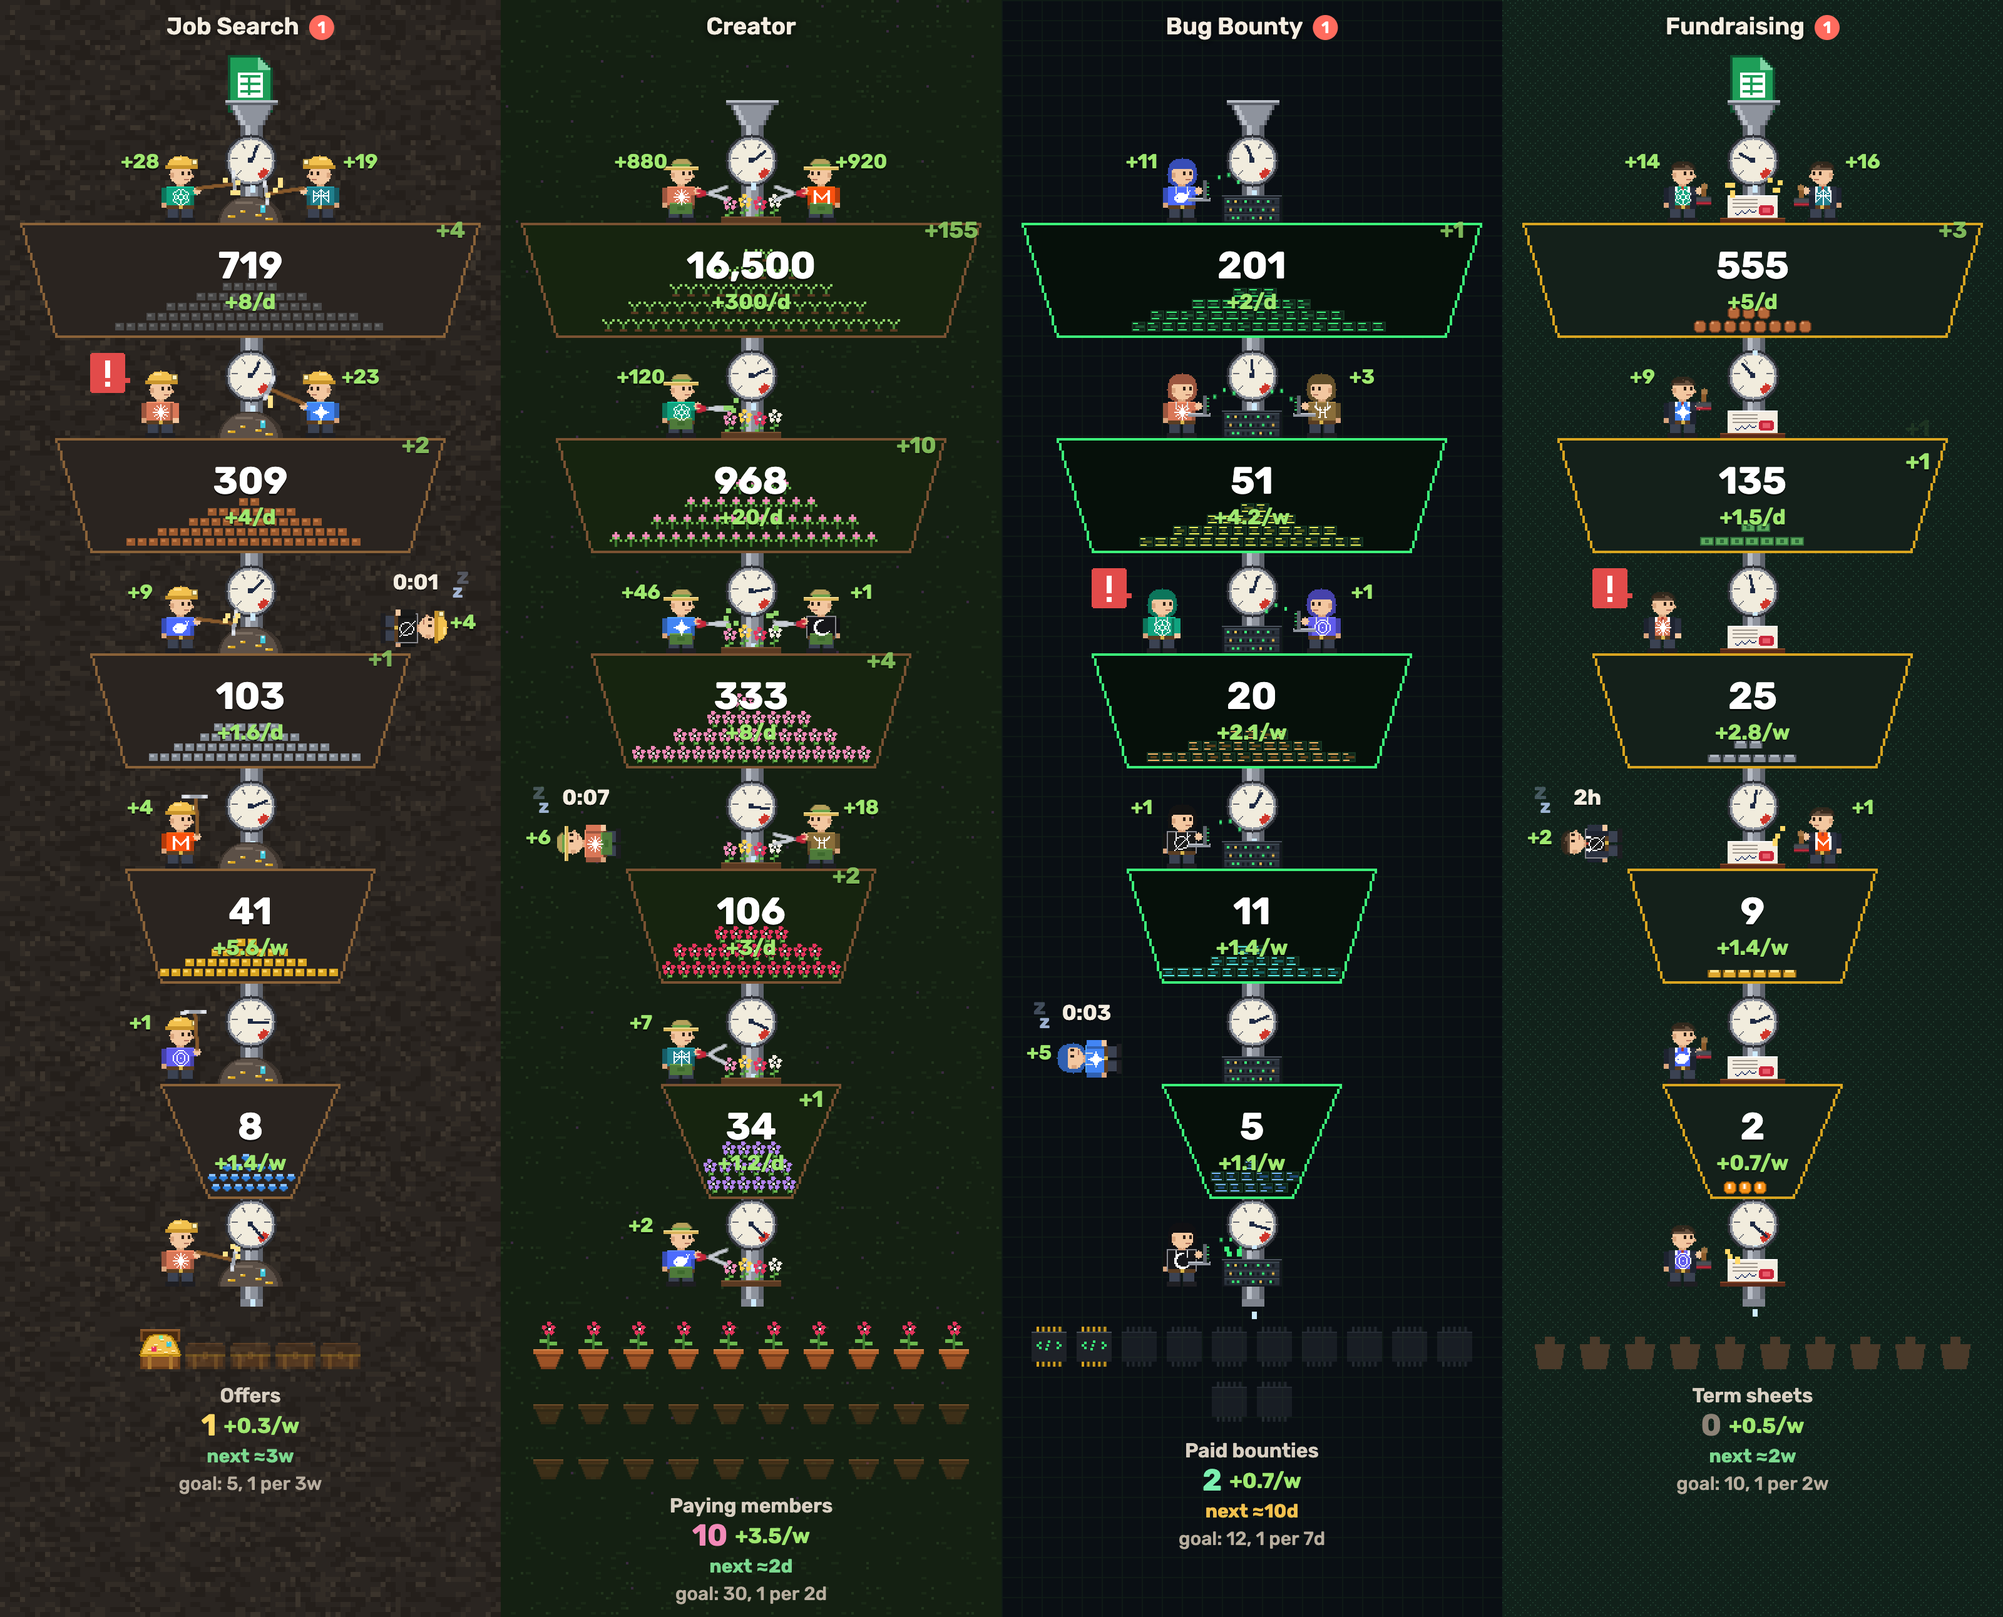
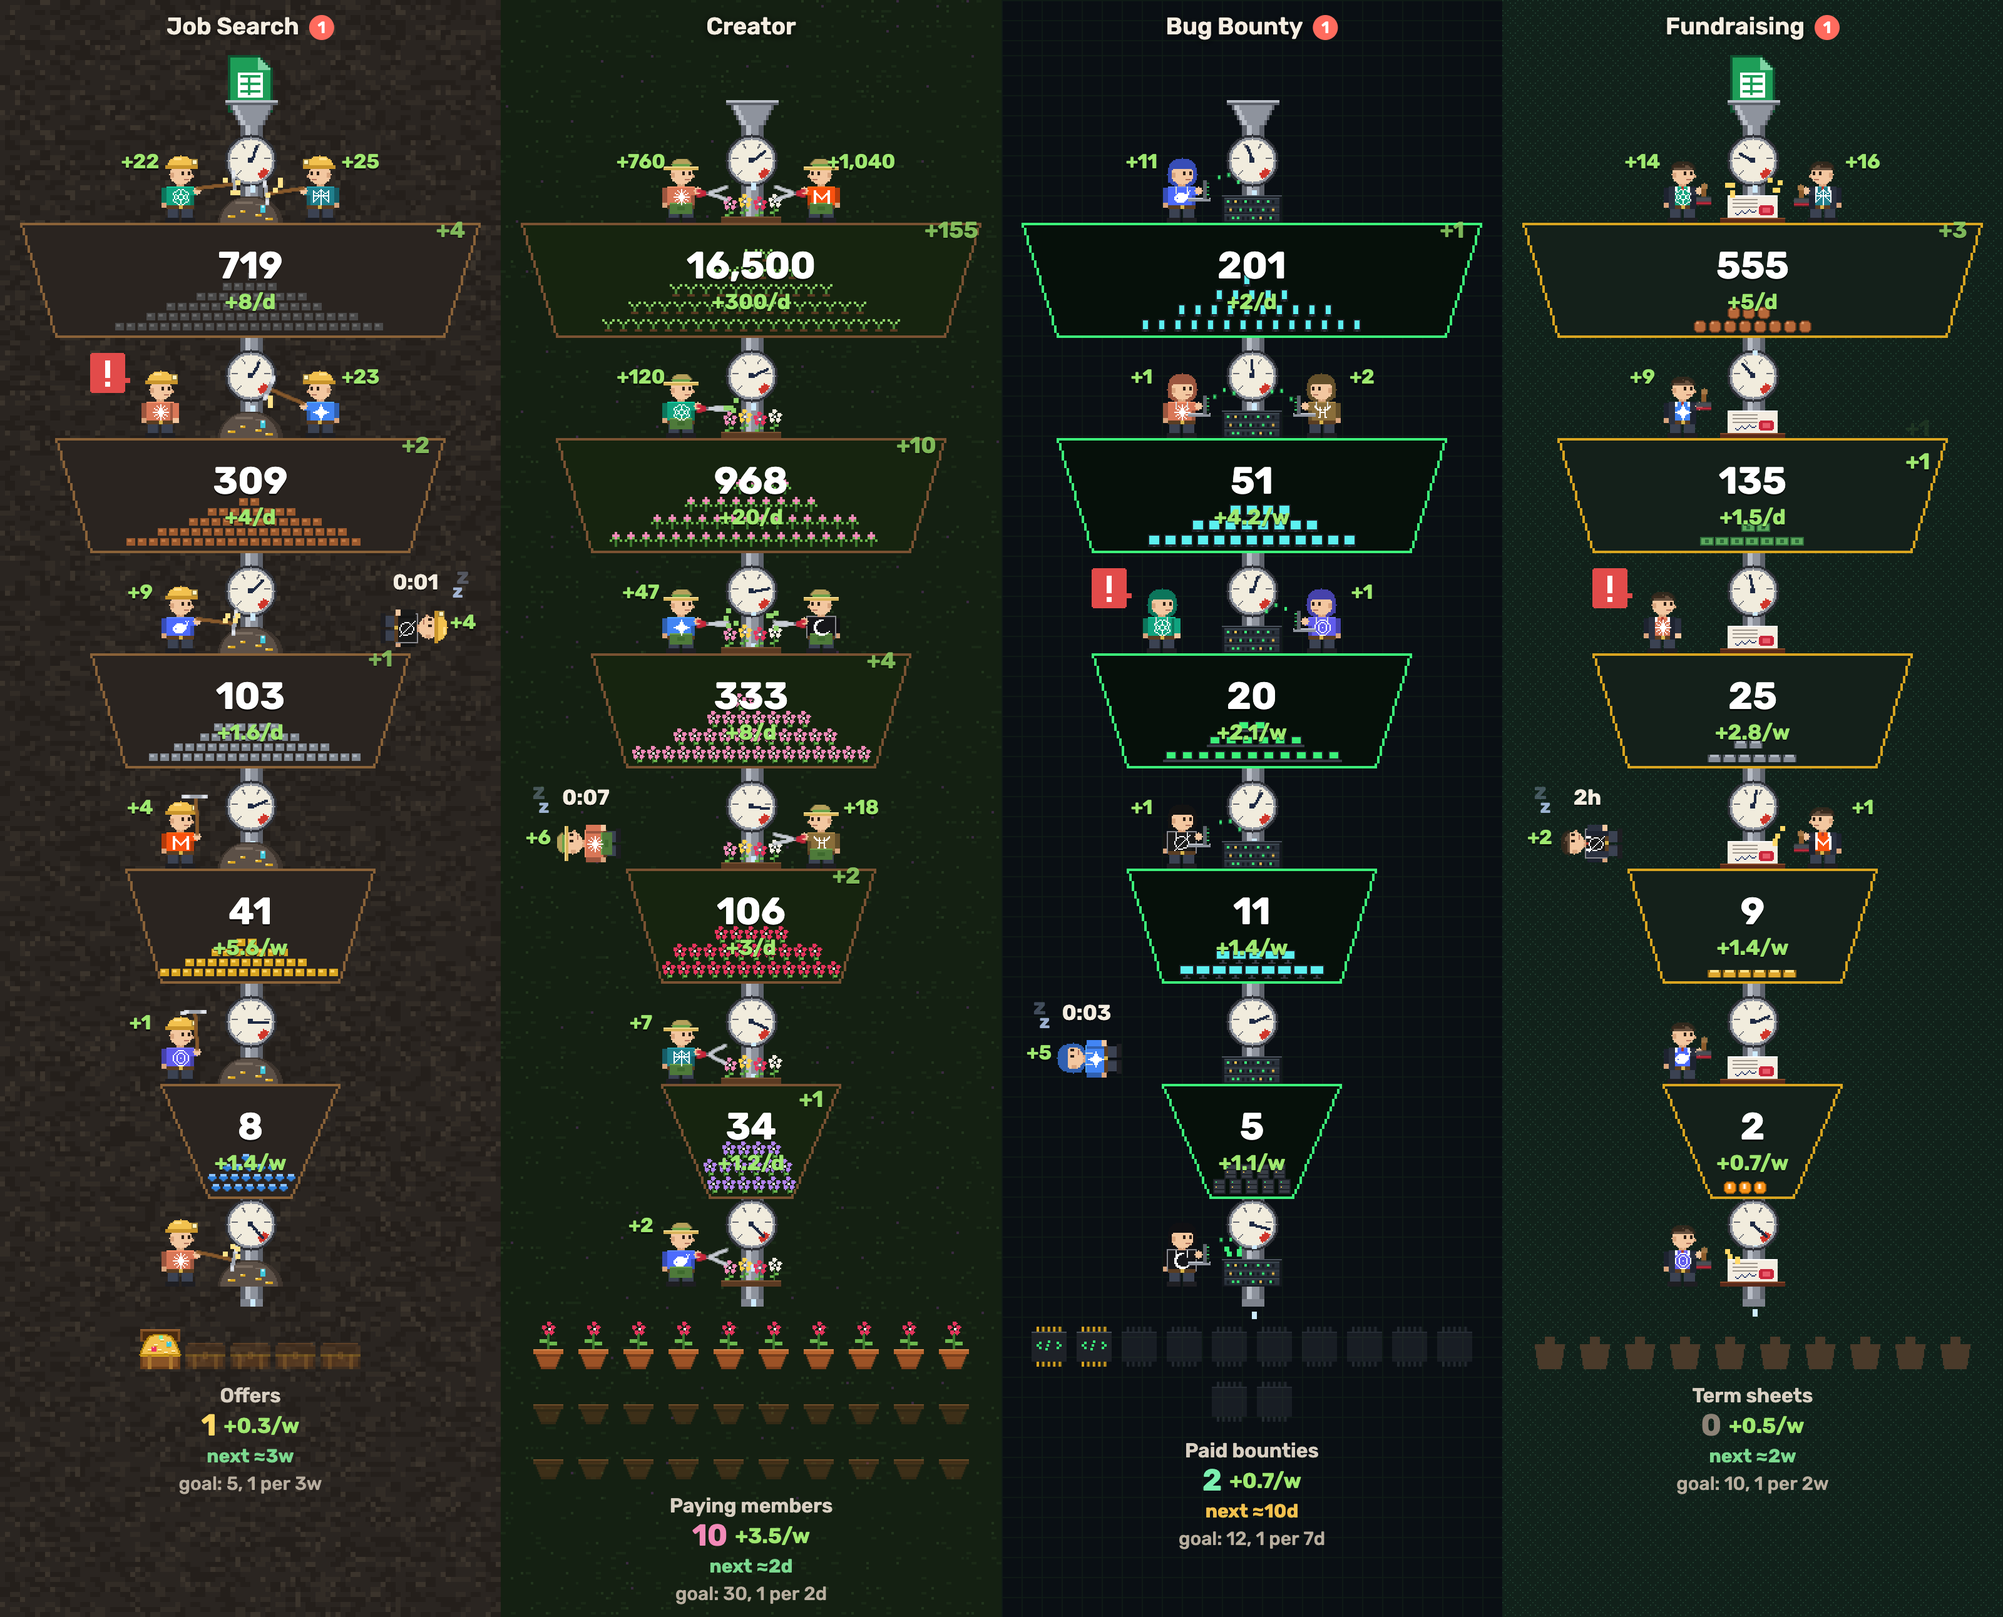
Code tanks fill with devices, bigger by stage: phones, tablets, laptops, monitors, servers

diff --git a/src/themes.js b/src/themes.js
@@ -451,15 +451,17 @@ const pieceLove = {
     byDepth([flower, letter, heart, lips, ring], j, n)(c, x, y, 0.75, col);
   },
 };
-// Code: little snippets, a dark block with two or three coloured lines like highlighted source;
-// the line colours change by stage.
+// Code: devices, bigger by stage: phones, tablets, laptops, monitors, then servers.
 const pieceCode = {
-  w: 6, h: 4.5,
-  draw(c, x, y, j, n, i = 0) {
-    const [a, b] = byDepth([['#3CF27A', '#2E8A50'], ['#F0F05C', '#8A8A20'], ['#FFB866', '#A85A18'], ['#5CF0F0', '#18A0A8'], ['#7CB8FF', '#2A6AD0']], j, n);
-    rect(c, x, y, 5.5, 4, '#1E4A2E'); rect(c, x + 0.25, y + 0.25, 5, 3.5, '#10261A');
-    const l = [3.5, 2, 3, 4, 2.5][i % 5], m = [2, 3.5, 1.5, 2.5, 3][i % 5];
-    rect(c, x + 0.5, y + 0.5, l, 0.5, a); rect(c, x + 1.5, y + 1.75, m, 0.5, b); rect(c, x + 0.5, y + 3, Math.min(4.5, l + 0.5), 0.5, a);
+  w: 6.5, h: 6,
+  draw(c, x, y, j, n) {
+    const kind = byDepth(['phone', 'tablet', 'laptop', 'monitor', 'server'], j, n);
+    const body = '#3A3F48', edge = '#1E2228', glow = '#3CF27A', screen = '#5CF0F0';
+    if (kind === 'phone') { rect(c, x + 1.5, y + 0.5, 3, 5, edge); rect(c, x + 2, y + 1, 2, 3.5, screen); rect(c, x + 2.5, y + 5, 1, 0.5, body); }
+    else if (kind === 'tablet') { rect(c, x + 0.5, y + 0.5, 5, 5, edge); rect(c, x + 1, y + 1, 4, 3.5, screen); rect(c, x + 2.5, y + 5, 1, 0.5, body); }
+    else if (kind === 'laptop') { rect(c, x + 1, y + 1, 4.5, 3.5, edge); rect(c, x + 1.5, y + 1.5, 3.5, 2.5, glow); rect(c, x, y + 4.5, 6.5, 1, body); }
+    else if (kind === 'monitor') { rect(c, x, y + 0.5, 6, 4, edge); rect(c, x + 0.5, y + 1, 5, 3, screen); rect(c, x + 2.5, y + 4.5, 1, 1, body); rect(c, x + 1.5, y + 5.5, 3, 0.5, body); }
+    else { rect(c, x + 0.5, y, 5, 6, edge); rect(c, x + 1, y + 0.5, 4, 1.5, body); rect(c, x + 1, y + 2.5, 4, 1.5, body); rect(c, x + 1.5, y + 1, 0.5, 0.5, glow); rect(c, x + 1.5, y + 3, 0.5, 0.5, '#F2C14E'); rect(c, x + 1, y + 4.5, 4, 1, body); }
   },
 };
 const pieceMoney = {

diff --git a/app/index.html b/app/index.html
@@ -12,7 +12,7 @@
   <link rel="preconnect" href="https://fonts.googleapis.com">
   <link rel="preconnect" href="https://fonts.gstatic.com" crossorigin>
   <link href="https://fonts.googleapis.com/css2?family=Rubik:wght@400;500;600;700&family=Noto+Sans+SC:wght@400;500;700&family=Noto+Sans+Thai:wght@400;500;700&family=Be+Vietnam+Pro:wght@400;500;600;700&family=Noto+Sans+JP:wght@400;500;700&display=swap" rel="stylesheet">
-  <link rel="stylesheet" href="../dashboard.css?v=ee44647d">
+  <link rel="stylesheet" href="../dashboard.css?v=3d2eac2a">
 </head>
 <body>
   <nav class="sitebar">
@@ -38,11 +38,11 @@
   <div id="pop" hidden></div>
 
   <script type="module">
-    import { supabase } from '../src/auth.js?v=ee44647d';
-    import { setUpConnect } from '../src/connect.js?v=ee44647d';
-    import { loadFunnels, answer, watch, runs } from '../src/live.js?v=ee44647d';
-    import { mountDashboard } from '../src/dashboard.js?v=ee44647d';
-    import { t, fmtDuration } from '../src/i18n.js?v=ee44647d';
+    import { supabase } from '../src/auth.js?v=3d2eac2a';
+    import { setUpConnect } from '../src/connect.js?v=3d2eac2a';
+    import { loadFunnels, answer, watch, runs } from '../src/live.js?v=3d2eac2a';
+    import { mountDashboard } from '../src/dashboard.js?v=3d2eac2a';
+    import { t, fmtDuration } from '../src/i18n.js?v=3d2eac2a';
 
     // Coming back from an email link, supabase-js reads the session from the URL.
     const { data: { session } } = await supabase.auth.getSession();
@@ -92,6 +92,6 @@
       document.addEventListener('focusout', () => { if (pending) refresh(); });
     }
   </script>
-  <script type="module" src="../src/nav.js?v=ee44647d"></script>
+  <script type="module" src="../src/nav.js?v=3d2eac2a"></script>
 </body>
 </html>

diff --git a/login/index.html b/login/index.html
@@ -12,7 +12,7 @@
   <link rel="preconnect" href="https://fonts.googleapis.com">
   <link rel="preconnect" href="https://fonts.gstatic.com" crossorigin>
   <link href="https://fonts.googleapis.com/css2?family=Rubik:wght@400;500;600;700&family=Noto+Sans+SC:wght@400;500;700&family=Noto+Sans+Thai:wght@400;500;700&family=Be+Vietnam+Pro:wght@400;500;600;700&family=Noto+Sans+JP:wght@400;500;700&display=swap" rel="stylesheet">
-  <link rel="stylesheet" href="../site.css?v=ee44647d">
+  <link rel="stylesheet" href="../site.css?v=3d2eac2a">
 </head>
 <body>
   <div class="wrap">
@@ -44,9 +44,9 @@
   </div>
 
   <script type="module">
-    import { supabase, afterSignIn } from '../src/auth.js?v=ee44647d';
-    import { GOOGLE_CLIENT_ID } from '../src/config.js?v=ee44647d';
-    import { t, lang } from '../src/i18n.js?v=ee44647d';
+    import { supabase, afterSignIn } from '../src/auth.js?v=3d2eac2a';
+    import { GOOGLE_CLIENT_ID } from '../src/config.js?v=3d2eac2a';
+    import { t, lang } from '../src/i18n.js?v=3d2eac2a';
 
     const msg = document.getElementById('msg');
     const say = (text, kind = '') => { msg.textContent = text; msg.className = 'msg ' + kind; };
@@ -120,6 +120,6 @@
       else say(t('login.sendFailed'), 'error');
     });
   </script>
-  <script type="module" src="../src/nav.js?v=ee44647d"></script>
+  <script type="module" src="../src/nav.js?v=3d2eac2a"></script>
 </body>
 </html>

diff --git a/oauth/consent/index.html b/oauth/consent/index.html
@@ -13,7 +13,7 @@
   <link rel="preconnect" href="https://fonts.googleapis.com">
   <link rel="preconnect" href="https://fonts.gstatic.com" crossorigin>
   <link href="https://fonts.googleapis.com/css2?family=Rubik:wght@400;500;600;700&family=Noto+Sans+SC:wght@400;500;700&family=Noto+Sans+Thai:wght@400;500;700&family=Be+Vietnam+Pro:wght@400;500;600;700&family=Noto+Sans+JP:wght@400;500;700&display=swap" rel="stylesheet">
-  <link rel="stylesheet" href="../../site.css?v=ee44647d">
+  <link rel="stylesheet" href="../../site.css?v=3d2eac2a">
 </head>
 <body>
   <div class="wrap">
@@ -29,8 +29,8 @@
   <script type="module">
     // OAuth consent: Supabase Auth sends the person here with ?authorization_id= when an agent
     // (Claude, ChatGPT, Cursor…) asks to connect to their GoalAgents.
-    import { supabase, siteUrl } from '../../src/auth.js?v=ee44647d';
-    import { t } from '../../src/i18n.js?v=ee44647d';
+    import { supabase, siteUrl } from '../../src/auth.js?v=3d2eac2a';
+    import { t } from '../../src/i18n.js?v=3d2eac2a';
 
     const card = document.getElementById('card');
     const esc = s => String(s ?? '').replace(/[&<>"']/g, c => `&#${c.charCodeAt(0)};`);

diff --git a/contact/index.html b/contact/index.html
@@ -23,7 +23,7 @@
   <link rel="preconnect" href="https://fonts.googleapis.com">
   <link rel="preconnect" href="https://fonts.gstatic.com" crossorigin>
   <link href="https://fonts.googleapis.com/css2?family=Rubik:wght@400;500;600;700&family=Noto+Sans+SC:wght@400;500;700&family=Noto+Sans+Thai:wght@400;500;700&family=Be+Vietnam+Pro:wght@400;500;600;700&family=Noto+Sans+JP:wght@400;500;700&display=swap" rel="stylesheet">
-  <link rel="stylesheet" href="../site.css?v=ee44647d">
+  <link rel="stylesheet" href="../site.css?v=3d2eac2a">
 </head>
 <body>
   <div class="wrap">
@@ -54,6 +54,6 @@
       <span><a href="../deck/" target="_blank" rel="noopener" data-i18n="footer.deck">Pitch deck</a> · <a href="../privacy/" data-i18n="footer.privacy">Privacy</a> · <a href="../contact/" data-i18n="footer.contact">Contact</a></span>
     </footer>
   </div>
-  <script type="module" src="../src/nav.js?v=ee44647d"></script>
+  <script type="module" src="../src/nav.js?v=3d2eac2a"></script>
 </body>
 </html>

diff --git a/pricing/index.html b/pricing/index.html
@@ -23,7 +23,7 @@
   <link rel="preconnect" href="https://fonts.googleapis.com">
   <link rel="preconnect" href="https://fonts.gstatic.com" crossorigin>
   <link href="https://fonts.googleapis.com/css2?family=Rubik:wght@400;500;600;700&family=Noto+Sans+SC:wght@400;500;700&family=Noto+Sans+Thai:wght@400;500;700&family=Be+Vietnam+Pro:wght@400;500;600;700&family=Noto+Sans+JP:wght@400;500;700&display=swap" rel="stylesheet">
-  <link rel="stylesheet" href="../site.css?v=ee44647d">
+  <link rel="stylesheet" href="../site.css?v=3d2eac2a">
 </head>
 <body>
   <div class="wrap">
@@ -84,6 +84,6 @@
       <span><a href="../deck/" target="_blank" rel="noopener" data-i18n="footer.deck">Pitch deck</a> · <a href="../privacy/" data-i18n="footer.privacy">Privacy</a> · <a href="../contact/" data-i18n="footer.contact">Contact</a></span>
     </footer>
   </div>
-  <script type="module" src="../src/nav.js?v=ee44647d"></script>
+  <script type="module" src="../src/nav.js?v=3d2eac2a"></script>
 </body>
 </html>

diff --git a/privacy/index.html b/privacy/index.html
@@ -23,7 +23,7 @@
   <link rel="preconnect" href="https://fonts.googleapis.com">
   <link rel="preconnect" href="https://fonts.gstatic.com" crossorigin>
   <link href="https://fonts.googleapis.com/css2?family=Rubik:wght@400;500;600;700&family=Noto+Sans+SC:wght@400;500;700&family=Noto+Sans+Thai:wght@400;500;700&family=Be+Vietnam+Pro:wght@400;500;600;700&family=Noto+Sans+JP:wght@400;500;700&display=swap" rel="stylesheet">
-  <link rel="stylesheet" href="../site.css?v=ee44647d">
+  <link rel="stylesheet" href="../site.css?v=3d2eac2a">
 </head>
 <body>
   <div class="wrap">
@@ -60,6 +60,6 @@
       <span><a href="../deck/" target="_blank" rel="noopener" data-i18n="footer.deck">Pitch deck</a> · <a href="../privacy/" data-i18n="footer.privacy">Privacy</a> · <a href="../contact/" data-i18n="footer.contact">Contact</a></span>
     </footer>
   </div>
-  <script type="module" src="../src/nav.js?v=ee44647d"></script>
+  <script type="module" src="../src/nav.js?v=3d2eac2a"></script>
 </body>
 </html>

diff --git a/tools/render-docs.js b/tools/render-docs.js
@@ -1,10 +1,10 @@
 // Renders the README pictures (agents sheet, theme samples, the board) and the link preview card from the same drawing code as
 // the dashboard and saves them through serve.py: open http://localhost:5173/tools/render-docs.html
 // (always in English: the page adds ?lang=en to itself).
-import { AGENTS, FUNNELS } from '../src/data.js?v=ee44647d';
-import { Scene, CW, H } from '../src/scene.js?v=ee44647d';
-import { THEMES } from '../src/themes.js?v=ee44647d';
-import { drawStanding, drawPickaxe, drawShears, drawBeaker, drawBow, drawArrow, drawLaptop, drawStamp } from '../src/sprites.js?v=ee44647d';
+import { AGENTS, FUNNELS } from '../src/data.js?v=3d2eac2a';
+import { Scene, CW, H } from '../src/scene.js?v=3d2eac2a';
+import { THEMES } from '../src/themes.js?v=3d2eac2a';
+import { drawStanding, drawPickaxe, drawShears, drawBeaker, drawBow, drawArrow, drawLaptop, drawStamp } from '../src/sprites.js?v=3d2eac2a';
 
 const FONT = 'Rubik, system-ui, sans-serif';
 

diff --git a/index.html b/index.html
@@ -23,7 +23,7 @@
   <link rel="preconnect" href="https://fonts.googleapis.com">
   <link rel="preconnect" href="https://fonts.gstatic.com" crossorigin>
   <link href="https://fonts.googleapis.com/css2?family=Rubik:wght@400;500;600;700&family=Noto+Sans+SC:wght@400;500;700&family=Noto+Sans+Thai:wght@400;500;700&family=Be+Vietnam+Pro:wght@400;500;600;700&family=Noto+Sans+JP:wght@400;500;700&display=swap" rel="stylesheet">
-  <link rel="stylesheet" href="site.css?v=ee44647d">
+  <link rel="stylesheet" href="site.css?v=3d2eac2a">
 </head>
 <body>
   <div class="wrap">
@@ -81,6 +81,6 @@
       <span><a href="deck/" target="_blank" rel="noopener" data-i18n="footer.deck">Pitch deck</a> · <a href="privacy/" data-i18n="footer.privacy">Privacy</a> · <a href="contact/" data-i18n="footer.contact">Contact</a></span>
     </footer>
   </div>
-  <script type="module" src="src/nav.js?v=ee44647d"></script>
+  <script type="module" src="src/nav.js?v=3d2eac2a"></script>
 </body>
 </html>

diff --git a/connect/index.html b/connect/index.html
@@ -23,7 +23,7 @@
   <link rel="preconnect" href="https://fonts.googleapis.com">
   <link rel="preconnect" href="https://fonts.gstatic.com" crossorigin>
   <link href="https://fonts.googleapis.com/css2?family=Rubik:wght@400;500;600;700&family=Noto+Sans+SC:wght@400;500;700&family=Noto+Sans+Thai:wght@400;500;700&family=Be+Vietnam+Pro:wght@400;500;600;700&family=Noto+Sans+JP:wght@400;500;700&display=swap" rel="stylesheet">
-  <link rel="stylesheet" href="../dashboard.css?v=ee44647d">
+  <link rel="stylesheet" href="../dashboard.css?v=3d2eac2a">
 </head>
 <body>
   <nav class="sitebar">
@@ -45,9 +45,9 @@
     </section>
   </main>
   <script type="module">
-    import { setUpConnect } from '../src/connect.js?v=ee44647d';
+    import { setUpConnect } from '../src/connect.js?v=3d2eac2a';
     setUpConnect();
   </script>
-  <script type="module" src="../src/nav.js?v=ee44647d"></script>
+  <script type="module" src="../src/nav.js?v=3d2eac2a"></script>
 </body>
 </html>

diff --git a/demo/index.html b/demo/index.html
@@ -23,7 +23,7 @@
   <link rel="preconnect" href="https://fonts.googleapis.com">
   <link rel="preconnect" href="https://fonts.gstatic.com" crossorigin>
   <link href="https://fonts.googleapis.com/css2?family=Rubik:wght@400;500;600;700&family=Noto+Sans+SC:wght@400;500;700&family=Noto+Sans+Thai:wght@400;500;700&family=Be+Vietnam+Pro:wght@400;500;600;700&family=Noto+Sans+JP:wght@400;500;700&display=swap" rel="stylesheet">
-  <link rel="stylesheet" href="../dashboard.css?v=ee44647d">
+  <link rel="stylesheet" href="../dashboard.css?v=3d2eac2a">
 </head>
 <body>
   <nav class="sitebar">
@@ -41,7 +41,7 @@
     <canvas id="scene"></canvas>
   </main>
   <div id="pop" hidden></div>
-  <script type="module" src="../src/main.js?v=ee44647d"></script>
-  <script type="module" src="../src/nav.js?v=ee44647d"></script>
+  <script type="module" src="../src/main.js?v=3d2eac2a"></script>
+  <script type="module" src="../src/nav.js?v=3d2eac2a"></script>
 </body>
 </html>

diff --git a/src/scene.js b/src/scene.js
@@ -1,7 +1,7 @@
-import { agentInfo, plural } from './data.js?v=ee44647d';
-import { drawStanding, drawLying, drawPickaxe, drawShears, drawBeaker, drawBow, drawArrow, drawLaptop, drawStamp, drawBubble, BUBBLE_STEP, line, P, MINER_H } from './sprites.js?v=ee44647d';
-import { themeOf } from './themes.js?v=ee44647d';
-import { t as tr, lang, fmtDuration } from './i18n.js?v=ee44647d';
+import { agentInfo, plural } from './data.js?v=3d2eac2a';
+import { drawStanding, drawLying, drawPickaxe, drawShears, drawBeaker, drawBow, drawArrow, drawLaptop, drawStamp, drawBubble, BUBBLE_STEP, line, P, MINER_H } from './sprites.js?v=3d2eac2a';
+import { themeOf } from './themes.js?v=3d2eac2a';
+import { t as tr, lang, fmtDuration } from './i18n.js?v=3d2eac2a';
 
 // Logical (pixel-art) layout of one funnel column. Funnels have 2-5 tanks with a mining zone above
 // each tank and one more below the last (the output zone, where results come out into flasks).
